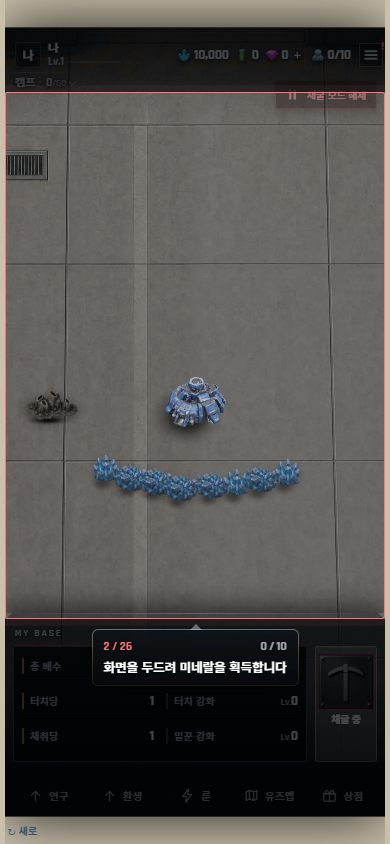
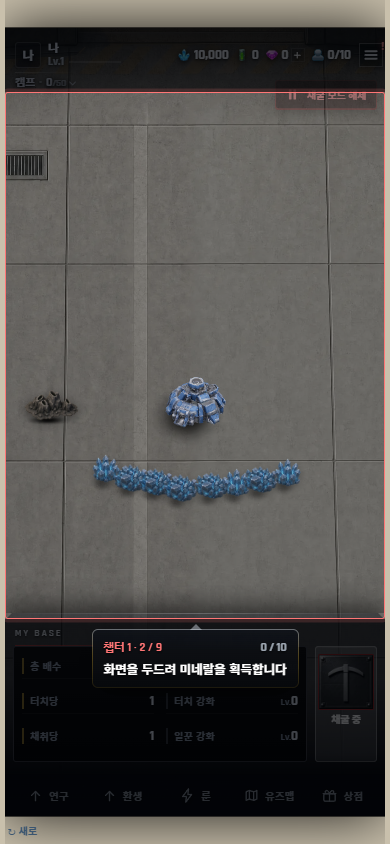
✨ 튜토리얼을 챕터 셋으로 — 자원 · 기지와 부대 · 출격
📚 스물여섯 단계를 한 줄로 이으면 어디쯤 왔는지 알 수 없고 쉬어 갈 자리도 없다.
   챕터가 바뀔 때 카드를 한 번 띄우고([계속]), 그 뒤로는 말풍선 왼쪽 위가
   「챕터 2 · 3/13」처럼 **챕터 안에서만** 센다.
   · 챕터 1 자원(9) — 채굴 → 두드리기 → 연구 구역 → 터치 강화 → 일꾼 → 일꾼 강화 → 병영 값
   · 챕터 2 기지와 부대(13) — 채굴 해제 → 건설 → 생산 → 유닛 이동 → 화면 조작
   · 챕터 3 출격(4) — 던전 목록 → 선택 → 이동 → 마무리

⭐ **경계는 표가 아니라 단계다** — TUTO_STEPS 안의 챕터 카드가 곧 경계이고 번호도
   그 사이에서 센다. ⛔ 「몇 번부터 몇 번까지」를 따로 적지 말 것: 단계가 하나 늘 때
   두 곳을 고쳐야 하고, 한 곳을 잊으면 번호가 조용히 어긋난다.
⛔ 보상은 나누지 않는다(사용자 확정) — 챕터는 눈금일 뿐, 보상은 끝에 한 번이다.

🃏 카드는 같은 .tuTip 이고 제목만 한 단 크다(새 판을 만들지 않았다). 시킬 일이 없으니
   링·꼬리·진행 숫자가 없고, 들어갈 때 미끄러지지 않는다 — 실측에서 화면만 한 구멍이
   점으로 오므라들어 「아무것도 아닌 밝은 사각형」이 한 박자 떠 있었다(camp-tuto-ch2.png).
📖 「읽었다」(S.tack)는 한 칸짜리라 넘어갈 때 지운다 — 안 지우면 다음 카드가 뜨자마자
   통과한다(카드가 셋이다).

실측: docs/mock/camp-tuto-ch1~3.png · 전 구간 자동 주행 통과(scripts/tuto-run.mjs).
계약: 경계 셋 · 카드는 번호에서 빠짐 · 카드의 얼굴(링·꼬리·숫자 없음, 버튼 「계속」,
      보상 없음) · 「읽었다」가 다음 카드로 안 새는 것까지.

Changed region(s): [[0.2462, 0.7393, 0.7385, 0.8009]]

diff --git a/js/06-daily.js b/js/06-daily.js
@@ -380,7 +380,25 @@ function guideNote(kind, n){ try{
 //   ⭐ 진행도는 **게임 상태에서 직접 읽는다**(n()) — 따로 세지 않으므로 어긋날 수가 없다.
 //   ⛔ 여기에 이벤트 리스너를 달아 세지 말 것(두 벌이 된다).
 const TUTO_DG = 1;   // 🗺 튜토리얼이 데려가는 곳 — 캠프(0)의 바로 다음
+// 📚 **셋으로 나눈다**(2026-09-08 사용자 확정) — 스물여섯 단계를 한 줄로 이으면 어디쯤 왔는지
+//   알 수 없고 쉬어 갈 자리도 없다. 챕터가 바뀔 때 카드를 한 번 띄우고, 그 뒤로는 말풍선
+//   왼쪽 위가 「챕터 2 · 3/13」처럼 **챕터 안에서만** 센다.
+//   ⭐ **경계는 표가 아니라 단계다** — TUTO_STEPS 안의 챕터 카드(ch 를 가진 칸)가 곧 경계이고,
+//     번호도 그 사이에서 센다. ⛔ 「몇 번부터 몇 번까지」를 따로 적어 두지 말 것: 단계가
+//     하나 늘 때마다 두 곳을 고쳐야 하고, 한 곳을 잊으면 번호가 조용히 어긋난다.
+//   ⛔ 보상은 나누지 않는다(사용자 확정) — 챕터는 나누는 눈금일 뿐이고 보상은 끝에 한 번이다.
+const TUTO_CH = [
+  { n:1, title:'자원',        sub:'두드려 벌고, 일꾼에게 맡깁니다' },
+  { n:2, title:'기지와 부대',  sub:'짓고, 뽑고, 움직입니다' },
+  { n:3, title:'출격',        sub:'던전으로 나갑니다' },
+];
+// 🃏 챕터 카드 한 칸을 만든다 — 시키는 일이 없고 **읽고 [계속]** 을 누른다(outro 와 같은 어법).
+function _tutoChStep(k){ const c=TUTO_CH[k];
+  return { id:'ch'+c.n, ch:c.n, goal:1,
+    tip:()=>c.title, sub:()=>c.sub, go:()=>'계속',
+    at:()=>'all', n:()=>{ const S=guideState(); return (S && S.tack) ? 1 : 0; } }; }
 const TUTO_STEPS = [
+  _tutoChStep(0),
   // ⚠ 채굴이 켜졌는지는 **campMineModeOn()** 이 안다(#phone.mineMode). 옛 시트의 #campMineTap 을
   //   보고 있었더니 켜도 다음으로 안 넘어갔다(2026-09-04 사용자 신고 · 그 시트는 이제 안 쓴다).
   { id:'mineOn', goal:1,  tip:'여기를 터치하여 채굴 모드를 켭니다',
@@ -411,6 +429,7 @@ const TUTO_STEPS = [
   //   ⚠ 돈은 **채굴이 켜져 있을 때 한꺼번에** 모은다 — 끄고 나면 두드려 벌 수가 없다(순서가 곧 이유다).
   { id:'coinB',  goal:()=>_tutoBCost(0)+_tutoBCost(1), tip:()=>_tutoBuildCostTip(),
     at:_tutoTapAt, n:()=>_tutoCoin() },
+  _tutoChStep(1),
   { id:'mineOff',goal:1,  tip:'채굴 모드 해제 버튼을 눌러 일반모드로 전환합니다',
     at:()=>_tutoVis('#campMineStop'),
     n:()=>(typeof campMineModeOn==='function' && !campMineModeOn()) ? 1 : 0 },
@@ -469,6 +488,7 @@ const TUTO_STEPS = [
   { id:'panDrag',goal:1,  tip:()=>(_tutoPanMode() ? '한 손가락으로 화면을 밀어 봅니다'
                                                   : '이동 모드가 풀렸습니다 — 다시 길게 누릅니다'),
     at:()=>'map', n:()=>(_tutoPanMode() ? _tutoView('pan') : 0) },
+  _tutoChStep(2),
   { id:'dgOpen', goal:1,  tip:'좌상단을 눌러 던전 목록을 엽니다',
     at:()=>_tutoVis('#curTitle'), n:()=>_tutoVis('#campDrop') ? 1 : 0 },
   { id:'dgPick', goal:1,  tip:()=>_tutoDgTip(),
@@ -482,6 +502,7 @@ const TUTO_STEPS = [
   //   아무 데나 터치하면 끝나고 보상이 나간다(tutoPaint 가 오버레이에 리스너를 단다).
   //   ⚠ 이 단계만 게임 상태가 아니라 **터치했나**를 본다. 그래서 상태를 S.tack 에 남긴다.
   { id:'outro',  goal:1,  tip:'라운드가 오를수록 재화 획득 배수가 늘어납니다',
+    sub:()=>TUTO_END_SUB,                                    // ⚠ 초기화를 말없이 하지 않는다
     at:()=>_tutoVis('#curMul') || 'all',
     n:()=>{ const S=guideState(); return (S && S.tack) ? 1 : 0; } },
 ];
@@ -695,10 +716,25 @@ function tutoFreeUnit(id){
 function _tutoLive(st){ if(!st) return false;
   if(st.id==='armB2' || st.id==='placeB2') return _tutoBk(1)!=null;
   return true; }
-function _tutoNo(){ let n=0, k=Math.min(tutoIdx(), TUTO_STEPS.length-1);
-  for(let i=0;i<=k;i++) if(_tutoLive(TUTO_STEPS[i])) n++;
+// 🔢 번호는 **범위 안에서** 센다 — 인자를 안 주면 전체(옛 동작), 챕터 경계를 주면 챕터 안 번호다.
+//   ⚠ 챕터 카드는 세지 않는다 — 시키는 일이 아니라 표지라서, 세면 「1/13」이 카드에서 시작한다.
+function _tutoNo(from){ let n=0, k=Math.min(tutoIdx(), TUTO_STEPS.length-1);
+  for(let i=(from|0);i<=k;i++){ const s=TUTO_STEPS[i]; if(_tutoLive(s) && !s.ch) n++; }
   return Math.max(1, n); }
-function _tutoTotal(){ let n=0; for(const st of TUTO_STEPS) if(_tutoLive(st)) n++; return n; }
+function _tutoTotal(from, to){ let n=0;
+  const a=(from|0), b=(to==null?TUTO_STEPS.length:to);
+  for(let i=a;i<b;i++){ const s=TUTO_STEPS[i]; if(_tutoLive(s) && !s.ch) n++; }
+  return n; }
+// 📚 지금 챕터 — 지나온 마지막 챕터 카드가 정한다(경계가 곧 그 카드다).
+function _tutoChNow(){ let c=null, k=Math.min(tutoIdx(), TUTO_STEPS.length-1);
+  for(let i=0;i<=k;i++) if(TUTO_STEPS[i].ch) c=TUTO_STEPS[i].ch;
+  return c; }
+// 📐 지금 챕터의 [시작, 끝) — 앞 카드의 다음 칸부터 다음 카드 앞까지.
+function _tutoChSpan(){ let a=0, k=Math.min(tutoIdx(), TUTO_STEPS.length-1);
+  for(let i=0;i<=k;i++) if(TUTO_STEPS[i].ch) a=i+1;
+  let b=TUTO_STEPS.length;
+  for(let i=a;i<TUTO_STEPS.length;i++) if(TUTO_STEPS[i].ch){ b=i; break; }
+  return [a, b]; }
 function tutoIdx(){ const S=guideState(); return S ? (S.t|0) : 0; }
 function tutoStep(){ return TUTO_STEPS[tutoIdx()] || null; }
 // 🔧 **검사용 스위치**(CAMP_DEV_NOFAIL 과 같은 어법). 튜토리얼은 화면을 통째로 덮고 입력을 막으므로
@@ -741,13 +777,16 @@ function tutoTarget(){
   const a=st.at();
   const goal=_tutoGoal(st), n=Math.min(goal, st.n()|0);
   const tip=(typeof st.tip==='function') ? st.tip() : st.tip;   // 종족마다 건물 이름이 다르다
-  if(a==='free') return { free:true, tip:tip, n:n, goal:goal };  // 👆 화면을 통째로 연다(막지 않는다)
-  if(a==='all') return { full:true, tip:tip, n:n, goal:goal };   // 📖 읽고 넘기는 단계(대상이 없다)
-  if(a==='map') return { map:true, tip:tip, n:n, goal:goal };
+  // 🗒 **부제는 단계가 갖는다** — 챕터 카드는 「짓고, 뽑고, 움직입니다」, 마지막 칸은 초기화 예고.
+  //   ⛔ 화면 쪽에서 단계 id 를 보고 문구를 고르지 말 것(표가 단일 소스다).
+  const sub=(typeof st.sub==='function') ? st.sub() : (st.sub||'');
+  if(a==='free') return { free:true, tip:tip, sub:sub, n:n, goal:goal };  // 👆 화면을 통째로 연다
+  if(a==='all') return { full:true, ch:st.ch||0, tip:tip, sub:sub, n:n, goal:goal }; // 📖 읽고 넘긴다
+  if(a==='map') return { map:true, tip:tip, sub:sub, n:n, goal:goal };
   // 🏛 맵 위의 **한 자리**(건물처럼 DOM 이 아닌 것) — {left,top,right,bottom}
-  if(a && a.left!=null) return { rect:a, tip:tip, n:n, goal:goal };
+  if(a && a.left!=null) return { rect:a, tip:tip, sub:sub, n:n, goal:goal };
   if(!a) return null;
-  return { el:a, tip:tip, n:n, goal:goal };
+  return { el:a, tip:tip, sub:sub, n:n, goal:goal };
 }
 // 다 했으면 다음 단계로 — 진행도를 그릴 때마다 확인한다(따로 이벤트를 안 단다).
 // ✅ **완료를 보고 넘어간다**(2026-09-04 사용자 요청) — 목표를 채우면 곧바로 다음으로 가지 않고
@@ -768,7 +807,8 @@ function tutoAdvance(){
     if(now - S.hold < TUTO_HOLD_MS) return false;               // 아직 보여 주는 중
     delete S.hold; }
   const _last=(tutoIdx()+1 >= TUTO_STEPS.length);
-  S.t=tutoIdx()+1; S.base=null; delete S.mv0; delete S.vw0; delete S.vp0;
+  // 📖 **「읽었다」는 한 칸짜리다** — 안 지우면 다음 챕터 카드가 뜨자마자 통과한다(카드가 셋이다).
+  S.t=tutoIdx()+1; S.base=null; delete S.tack; delete S.mv0; delete S.vw0; delete S.vp0;
   if(_last) tutoFinish();
   // 💰 **단계가 바뀌면 값도 그 자리에서 다시 잰다.** 유닛 값은 campFrame 이 프레임마다 갱신하는데
   //   「첫 한 기 공짜」는 **단계**에 달려 있다 — 안 그러면 카드가 한 박자 옛 값으로 잠겨 보인다.
@@ -804,7 +844,7 @@ function tutoPaint(){
     //   ⚠ 게임 행동이 아니라 「읽었다」는 신호라, 계측(dqNote)이 아니라 여기서 받는 것이 맞다.
     ov.querySelector('.tuGo').addEventListener('click', function(ev){
       if(ev && ev.stopPropagation) ev.stopPropagation();
-      const st=tutoStep(); if(!st || st.id!=='outro') return;
+      const st=tutoStep(); if(!st || (st.id!=='outro' && !st.ch)) return;
       const S=guideState(); if(S) S.tack=1;
       tutoPaint(); }); }
   ph.classList.add('tutoOn');
@@ -845,7 +885,9 @@ function tutoPaint(){
         if(s.height>0 && s.top>y0 && s.top<y2) y2=s.top; }
       return { left:h.left, right:h.right, top:y0, bottom:Math.max(y0+40, y2) }; })()
     : t.el.getBoundingClientRect();
-  const PAD=6;
+  // 📚 챕터 카드는 **구멍이 없다** — 여느 단계의 여유(PAD)를 그대로 두면 대상이 없는데도
+  //   14px 짜리 밝은 점이 카드 위에 남는다(2026-09-08 실측). 시킬 일이 없으니 열 곳도 없다.
+  const PAD=t.ch ? 0 : 6;
   const x1=Math.max(0, r.left-pr.left-PAD), y1=Math.max(0, r.top-pr.top-PAD);
   const x2=Math.min(pr.width, r.right-pr.left+PAD), y2=Math.min(pr.height, r.bottom-pr.top+PAD);
   const px=(v)=>v.toFixed(1)+'px';
@@ -856,9 +898,12 @@ function tutoPaint(){
   //   ⚠ **자리를 주기 전에** 정해야 한다(2026-09-08). 링 style 을 준 뒤에 transition 을 꺼 봐야
   //     이미 시작한 보간은 안 멈춘다 — 실측에서 링이 364px 에서 53px 로 계속 미끄러졌다.
   //   ⚠ 가까운 이동은 그대로 미끄러진다(단계가 이어진다는 느낌은 그쪽이 낫다).
+  //   📚 **챕터 카드로 들어갈 때도 즉시** — 대상이 없어 구멍이 화면만 하게 벌어져 있다가
+  //     점으로 오므라든다. 그건 「미끄러진다」가 아니라 **밝은 사각형이 닫히는** 것이라
+  //     한 박자 동안 아무것도 아닌 판이 떠 있는 것으로 보인다(2026-09-08 실측 camp-tuto-ch2.png).
   { const mx=(x1+x2)/2, my=(y1+y2)/2, prev=ov._tuAt;
     ov._tuAt={ x:mx, y:my };
-    if(prev && Math.hypot(mx-prev.x, my-prev.y) > pr.height*0.30){
+    if((prev && Math.hypot(mx-prev.x, my-prev.y) > pr.height*0.30) || !!t.ch){
       ov.classList.remove('tuAnim');
       const rg=q('.tuRing'); rg.classList.remove('tuPop'); void rg.offsetWidth; rg.classList.add('tuPop');
       if(typeof requestAnimationFrame==='function') requestAnimationFrame(function(){ ov.classList.add('tuAnim'); });
@@ -868,7 +913,10 @@ function tutoPaint(){
   q('.tuL').style.cssText='left:0;top:'+px(y1)+';width:'+px(x1)+';height:'+px(y2-y1);
   q('.tuR').style.cssText='left:'+px(x2)+';top:'+px(y1)+';right:0;height:'+px(y2-y1);
   q('.tuRing').style.cssText='left:'+px(x1)+';top:'+px(y1)+';width:'+px(x2-x1)+';height:'+px(y2-y1);
-  q('.tuRing').classList.toggle('tuHide', !!t.free);   // 👆 화면 전체를 여는 단계에는 테두리를 안 그린다
+  // 👆 화면 전체를 여는 단계 · 📚 챕터 카드에는 테두리를 안 그린다.
+  //   ⚠ 챕터 카드에 링이 남으면 화면 한가운데에 **아무것도 아닌 붉은 사각형**이 뜬다 —
+  //     시키는 일이 없는 칸이라 가리킬 곳도 없다(2026-09-08 실측 camp-tuto-ch2.png).
+  q('.tuRing').classList.toggle('tuHide', !!t.free || !!t.ch);
   // 말풍선은 **대상 옆**에 붙인다(2026-09-04 사용자 지적) — 화면 아래 끝에 두면 어디를 누르라는 건지
   //   눈이 두 번 움직인다. 아래에 자리가 있으면 아래, 없으면 위. 좌우는 대상 중심을 따라간다.
   // 🎞 **단계가 바뀔 때만** 말풍선을 다시 태운다(2026-09-04 사용자 요청 — 「조금 더 자연스럽게」).
@@ -877,20 +925,33 @@ function tutoPaint(){
   { const _st=tutoStep(), _id=_st?_st.id:'';
     if(ov._tuStep!==_id){ ov._tuStep=_id;
       const _tp=q('.tuTip'); _tp.classList.remove('tuIn'); void _tp.offsetWidth; _tp.classList.add('tuIn'); } }
-  // 🏁 마지막 칸은 왼쪽 위가 **번호가 아니라 「튜토리얼 종료」**다 — 시킬 일이 없고 끝을 알린다.
+  // 🏷 왼쪽 위 — 챕터 카드는 「챕터 2」, 마지막 칸은 「튜토리얼 종료」, 그 밖은 「챕터 2 · 3/13」.
+  //   ⭐ 번호를 **챕터 안에서** 센다(2026-09-08 사용자 확정) — 스물여섯을 통으로 세면 어디쯤
+  //     왔는지 감이 안 온다. ⛔ 전체 통산으로 되돌리지 말 것.
   { const _st=tutoStep(), _last=!!(_st && _st.id==='outro'), _sp=q('.tuStep');
-    _sp.textContent=_last ? TUTO_END_TITLE : (_tutoNo()+' / '+_tutoTotal());
-    _sp.classList.toggle('end', _last); }
+    const _ch=_tutoChNow(), _sp2=_tutoChSpan();
+    _sp.textContent = _st && _st.ch ? ('챕터 ' + _st.ch)
+      : _last ? TUTO_END_TITLE
+      : ((_ch ? ('챕터 ' + _ch + ' · ') : '') + _tutoNo(_sp2[0]) + ' / ' + _tutoTotal(_sp2[0], _sp2[1]));
+    _sp.classList.toggle('end', _last || !!(_st && _st.ch)); }
   q('.tuTx').textContent=t.tip;
-  // ⚠ **초기화를 말없이 하지 않는다** — 지어 둔 것이 사라진다는 예고를 확인 버튼 위에 둔다.
-  { const _st=tutoStep(), _last=!!(_st && _st.id==='outro'), _sb=q('.tuSub');
-    _sb.textContent=_last ? TUTO_END_SUB : ''; _sb.hidden=!_last; }
+  // 🗒 부제 — 챕터 카드의 한 줄 소개 · 마지막 칸의 초기화 예고. 없으면 자리도 없다.
+  { const _sb=q('.tuSub'); _sb.textContent=t.sub||''; _sb.hidden=!t.sub; }
+  // 🃏 챕터 카드는 **판이 다르다** — 제목이 크고 진행 숫자가 없다(시키는 일이 없다).
+  { const _st=tutoStep(), _isCh=!!(_st && _st.ch);
+    q('.tuTip').classList.toggle('ch', _isCh);
+    q('.tuN').hidden=_isCh; }
   q('.tuN').textContent=t.n+' / '+t.goal;                    // 오른쪽 = **이번 단계의 진행**
   q('.tuN').classList.toggle('ok', t.n>=t.goal);             // ✅ 다 했으면 초록(0.3초 머무는 동안 보인다)
   // 🎁 마지막 단계에만 확인 버튼 — 보상을 **버튼 안에** 얹는다(재화 아이콘은 공용 resIco 하나뿐이다).
   { const _go=q('.tuGo'), _st=tutoStep(), _last=!!(_st && _st.id==='outro');
-    _go.hidden=!_last;
-    if(_last && !_go._tuFill){ _go._tuFill=1;
+    const _isCh=!!(_st && _st.ch);
+    _go.hidden=!(_last || _isCh);
+    // 🃏 챕터 카드의 버튼은 **「계속」** — 보상이 없으므로 글자만이다.
+    //   ⚠ 캐시 열쇠는 **단계 id** 다 — 「채운 적 있다」로 두면 챕터 2 카드에 챕터 1 의 글자가 남는다.
+    if(_isCh && _go._tuFill!==_st.id){ _go._tuFill=_st.id;
+      _go.innerHTML='<span>'+((typeof _st.go==='function')?_st.go():'계속')+'</span>'; }
+    if(_last && _go._tuFill!=='outro'){ _go._tuFill='outro';
       // 🎁 **받는 것을 다 적는다** — 젬(보상)과 밑천 미네랄(새 출발). 둘 다 실제로 들어가므로
       //   하나만 적으면 나머지가 없는 것처럼 보인다. ⛔ 이모지 금지 — 재화 그림은 resIco 하나다.
       const _rw=[];

diff --git a/test/smoke.js b/test/smoke.js
@@ -13338,12 +13338,18 @@ async function groupLobby(){
     skipIf(!S,'가이드 상태 없음');
     const on0=window.campIsOn, off0=TUTO_OFF, t0=S.t, base0=S.base, skip0=S.skip;
     try{
-      window.campIsOn=()=>true; TUTO_OFF=false; S.t=0; S.base=null; delete S.skip; S.trun=1;
+      window.campIsOn=()=>true; TUTO_OFF=false;
+      // ⚠ 챕터 카드(0번)가 아니라 **첫 지시 단계**에서 잰다 — 카드는 대상이 없다.
+      S.t=TUTO_STEPS.findIndex(s=>s.id==='mineOn'); S.base=null; delete S.skip; S.trun=1;
       var _cm0=ph.classList.contains('campMode'); ph.classList.add('campMode');
       tutoPaint();
       // 표 자체는 화면이 없어도 잰다 — 단계마다 **제 진행도**를 갖는 것이 이 설계의 핵심이다
-      assert(TUTO_STEPS[0].goal===1,'첫 단계가 1번이 아니다: '+TUTO_STEPS[0].goal);
-      assert(TUTO_STEPS[1].goal===10,'두 번째 단계가 10번이 아니다: '+TUTO_STEPS[1].goal);
+      // 📚 맨 앞은 **챕터 1 카드**다(읽고 넘긴다) — 시키는 일은 그다음 칸부터다.
+      //   ⚠ 이 검사는 「단계마다 제 진행도를 갖는다」를 재는 것이라, 카드를 건너뛰고 잰다.
+      const _i0=TUTO_STEPS.findIndex(s=>s.id==='mineOn'), _i1=TUTO_STEPS.findIndex(s=>s.id==='tap');
+      assert(TUTO_STEPS[0].ch===1,'맨 앞이 챕터 1 카드가 아니다: '+TUTO_STEPS[0].id);
+      assert(TUTO_STEPS[_i0].goal===1,'첫 단계가 1번이 아니다: '+TUTO_STEPS[_i0].goal);
+      assert(TUTO_STEPS[_i1].goal===10,'두 번째 단계가 10번이 아니다: '+TUTO_STEPS[_i1].goal);
       assert(TUTO_STEPS.length>=6,'단계표가 너무 짧다: '+TUTO_STEPS.length);
       const ov=$('tutoOv');
       // 대상(채굴 칸)이 화면에 있어야 스포트라이트가 뜬다 — 없으면 이 검사는 건너뛴다
@@ -13360,14 +13366,16 @@ async function groupLobby(){
       assert(out && out.closest && out.closest('.tutoOv'),'대상 밖이 안 막힌다 — 완전 강제가 깨졌다');
       assert(inn && inn.closest && inn.closest('[data-minemode]'),'대상이 안 눌린다 — 스포트라이트가 대상까지 덮었다');
       // ③ 두 진행도 — 왼쪽은 몇 단계째, 오른쪽은 이번 단계의 진행
-      assert(/^1 \/ \d+$/.test(ov.querySelector('.tuStep').textContent),'왼쪽이 단계 표시가 아니다: '+ov.querySelector('.tuStep').textContent);
+      { const _hd=ov.querySelector('.tuStep').textContent;
+        assert(_hd.indexOf('챕터 1 · 1 / ')===0,
+          '왼쪽이 「챕터 N · a / b」가 아니다: '+_hd); }
       assert(ov.querySelector('.tuN').textContent==='0 / 1','첫 단계 진행이 0 / 1 이 아니다: '+ov.querySelector('.tuN').textContent);
       // ④ 말풍선이 **대상 근처**에 있다(화면 끝에 두면 눈이 두 번 움직인다)
       { const tip=ov.querySelector('.tuTip').getBoundingClientRect();
         const d=Math.min(Math.abs(tip.top-Tg.bottom), Math.abs(Tg.top-tip.bottom));
         assert(d<=40,'말풍선이 대상에서 멀다: '+d.toFixed(0)+'px'); }
       // ⑤ 다음 단계는 goal 이 10 이다(광맥 두드리기) — 단계마다 제 진행도를 갖는다
-      assert(TUTO_STEPS[1].goal===10,'두 번째 단계가 10번이 아니다: '+TUTO_STEPS[1].goal);
+      assert(TUTO_STEPS[_i1].goal===10,'두 번째 단계가 10번이 아니다: '+TUTO_STEPS[_i1].goal);
       // ⑥ 🚪 **직접 켜 보는 자리**가 있다(2026-09-04 사용자 요청) — 가이드 시트 맨 위 줄.
       //   ⛔ 그만두기를 빼지 말 것: 튜토리얼은 화면을 덮으므로 켠 사람이 나올 길이 필요하다.
       assert(typeof tutoRestart==='function' && typeof tutoStop==='function','튜토리얼을 켜고 끄는 입구가 없다');
@@ -13504,6 +13512,65 @@ async function groupLobby(){
     return '되감음 · 환생 값 유지 · 밑천 '+got.toLocaleString()+' · 가스 0 · 일꾼 '+wk;
   });
 
+  // 📚 튜토리얼은 **셋으로 나뉜다**(2026-09-08 사용자 확정) — 자원 · 기지와 부대 · 출격.
+  //   경계는 표가 아니라 **챕터 카드 단계**이고, 번호도 그 사이에서 센다.
+  await step('튜토리얼: 챕터 셋으로 갈린다 · 카드는 읽고 넘긴다', async()=>{
+    skipIf(typeof TUTO_STEPS==='undefined'||typeof TUTO_CH==='undefined','튜토리얼 없음');
+    const ids=TUTO_STEPS.map(s=>s.id), at=(k)=>ids.indexOf(k);
+    assert(TUTO_CH.length===3,'챕터가 셋이 아니다: '+TUTO_CH.length);
+    for(const c of TUTO_CH) assert(c.title && c.sub,'챕터에 제목·부제가 없다: '+JSON.stringify(c));
+    // 🗂 경계 — 자원은 채굴부터, 기지는 채굴 해제부터, 출격은 던전 목록부터
+    assert(at('ch1')+1===at('mineOn'),'챕터 1 이 채굴 앞에서 안 열린다: '+ids.slice(0,3).join(' → '));
+    assert(at('ch2')+1===at('mineOff'),'챕터 2 가 「채굴 해제」 앞이 아니다');
+    assert(at('ch3')+1===at('dgOpen'),'챕터 3 이 「던전 목록」 앞이 아니다');
+    // 🔢 카드는 **번호에서 빠진다** — 세면 「1/13」이 카드에서 시작해 셈이 거짓말이 된다
+    { const S=guideState(); skipIf(!S,'상태 없음'); const t0=S.t;
+      try{ S.t=at('ch2'); const sp=_tutoChSpan();
+        assert(sp[0]===at('mineOff'),'챕터 범위가 카드부터 시작한다: '+sp[0]+' vs '+at('mineOff'));
+        assert(sp[1]===at('ch3'),'챕터 범위가 다음 카드에서 안 끝난다: '+sp[1]);
+        const tot=_tutoTotal(sp[0],sp[1]);
+        assert(tot>0 && tot<TUTO_STEPS.length,'챕터 안 총수가 이상하다: '+tot);
+        S.t=at('mineOff');
+        assert(_tutoNo(sp[0])===1,'챕터 첫 단계가 1 이 아니다: '+_tutoNo(sp[0]));
+        assert(_tutoChNow()===2,'챕터 번호가 틀렸다: '+_tutoChNow());
+      } finally { S.t=t0; } }
+    // 🃏 카드의 모습 — 링·꼬리·진행 숫자가 없고, 버튼은 「계속」(보상은 끝에 한 번뿐이다)
+    { const S=guideState(), on0=window.campIsOn, off0=TUTO_OFF;
+      const t0=S?S.t:0, run0=S?S.trun:null, skip0=S?S.skip:null, ack0=S?S.tack:null;
+      try{ window.campIsOn=()=>true; TUTO_OFF=false;
+        if(S){ S.t=at('ch2'); S.trun=1; delete S.skip; delete S.tack; }
+        tutoPaint();
+        const ov=$('tutoOv'); assert(ov,'챕터 카드가 안 뜬다');
+        const tip=ov.querySelector('.tuTip'), go=ov.querySelector('.tuGo');
+        assert(tip.classList.contains('ch'),'챕터 카드가 지시 카드와 같은 얼굴이다');
+        assert(ov.querySelector('.tuStep').textContent==='챕터 2',
+          '카드 머리줄이 챕터를 안 말한다: '+ov.querySelector('.tuStep').textContent);
+        assert(ov.querySelector('.tuTx').textContent===TUTO_CH[1].title,'카드 제목이 다르다');
+        const sb=ov.querySelector('.tuSub');
+        assert(sb && !sb.hidden && sb.textContent===TUTO_CH[1].sub,'카드 부제가 없다');
+        assert(ov.querySelector('.tuN').hidden,'카드에 진행 숫자가 뜬다 — 시킬 일이 없는 칸이다');
+        assert(getComputedStyle(tip,'::after').display==='none','카드에 꼬리가 남았다 — 가리킬 곳이 없다');
+        const rgc=getComputedStyle(ov.querySelector('.tuRing')).borderTopColor;
+        assert(rgc.indexOf('0)')>0||rgc==='transparent','카드에 스포트라이트 링이 남았다: '+rgc);
+        assert(go && !go.hidden && getComputedStyle(go).display!=='none','카드에 「계속」 버튼이 없다');
+        assert(go.textContent.trim()==='계속','카드 버튼 글자가 다르다: '+go.textContent);
+        assert(!go.querySelector('img,svg'),'카드 버튼에 보상이 붙었다 — 보상은 끝에 한 번이다');
+        // 📖 「읽었다」는 **한 칸짜리** — 안 지우면 다음 카드가 뜨자마자 통과한다
+        go.click();
+        assert(S.tack===1,'카드를 눌러도 읽었다는 표시가 안 남는다');
+        S.t=at('ch3'); S.base=null; delete S.tack;      // tutoAdvance 가 하는 것과 같다
+        tutoPaint();
+        assert((TUTO_STEPS[at('ch3')].n()|0)===0,
+          '다음 카드가 뜨자마자 통과한다 — 「읽었다」를 안 지웠다');
+      } finally { window.campIsOn=on0; TUTO_OFF=off0;
+        if(S){ S.t=t0;
+          if(run0!=null) S.trun=run0; else delete S.trun;
+          if(skip0!=null) S.skip=skip0; else delete S.skip;
+          if(ack0!=null) S.tack=ack0; else delete S.tack; }
+        tutoPaint(); } }
+    return '챕터 '+TUTO_CH.map(c=>c.title).join(' · ');
+  });
+
   await step('튜토리얼: 건물 짓기가 손동작 단위로 갈라져 있다', async()=>{
     skipIf(typeof TUTO_STEPS==='undefined'||typeof TUTO_BLD==='undefined','튜토리얼 없음');
     const ids=TUTO_STEPS.map(s=>s.id);
@@ -13530,10 +13597,12 @@ async function groupLobby(){
     { const r0=G.tech.race; try{ G.tech.race='union';
         assert(_tutoLive({id:'armB2'})===false && _tutoLive({id:'placeB2'})===false,
           '유니온인데 둘째 건물 단계를 센다 — 번호가 뛴다');
-        assert(_tutoTotal()===ids.length-2,'보이는 단계 수가 안 맞는다: '+_tutoTotal()+' (전체 '+ids.length+')');
+        // ⚠ 챕터 카드 셋도 세지 않는다(시키는 일이 아니라 표지다)
+        assert(_tutoTotal()===ids.length-2-TUTO_CH.length,
+          '보이는 단계 수가 안 맞는다: '+_tutoTotal()+' (전체 '+ids.length+' · 카드 '+TUTO_CH.length+')');
         G.tech.race='aetherial';
         assert(_tutoLive({id:'armB2'})===true,'에테리얼은 둘째 건물(동력탑→차원문)을 쓴다');
-        assert(_tutoTotal()===ids.length,'에테리얼인데 단계가 빠진다: '+_tutoTotal());
+        assert(_tutoTotal()===ids.length-TUTO_CH.length,'에테리얼인데 단계가 빠진다: '+_tutoTotal());
       } finally { G.tech.race=r0; } }
     // 📖 **마지막은 읽고 넘긴다** — 좌상단 **배수 칸**(#curMul)을 감싼다(2026-09-04 사용자 확정).
     //   ⚠ 그 칸이 없거나 안 보이면 화면 전체('all')로 물러난다 — 그래도 아무 데나 터치하면 넘어간다.

diff --git a/css/30-home.css b/css/30-home.css
@@ -978,6 +978,15 @@
      ⛔ 경고색(붉은색)을 쓰지 말 것: 이 자리의 붉은색은 왼쪽 위 제목과 스포트라이트 링이다. */
   .tutoOv .tuSub{margin-top:1px;font-size:11px;font-weight:700;color:rgba(214,226,240,.62);
     line-height:1.3;word-break:keep-all}
+  /* 📚 **챕터 카드** — 시키는 일이 없고 「여기서부터 무엇을 배우는지」만 말한다(2026-09-08).
+     제목을 한 단 키우고 진행 숫자를 숨겨, 지시 카드와 **한눈에 갈리게** 한다.
+     ⛔ 새 판을 만들지 말 것 — 같은 .tuTip 이고 달라지는 건 글자 크기와 여백뿐이다. */
+  /* ⛔ 챕터 카드에는 **꼬리가 없다** — 가리킬 대상이 없는데 꼬리만 남으면 화면의 빈자리를 가리킨다. */
+  .tutoOv .tuTip.ch::after{display:none}
+  .tutoOv .tuTip.ch{padding:11px 13px 11px}
+  .tutoOv .tuTip.ch .tuTx{font-size:17px;line-height:1.2;letter-spacing:-.01em}
+  .tutoOv .tuTip.ch .tuSub{margin-top:3px;font-size:11.5px;color:rgba(214,226,240,.7)}
+  .tutoOv .tuTip.ch .tuGo{margin-top:9px}
   /* 🎁 마지막 확인 버튼 — 공용 .actBtn.pri 가 면·테두리·글자를 갖는다. 여기서는 **자리와 크기만** 준다.
      ⛔ 면·테두리를 따로 쓰지 말 것(레지스트리 「액션 버튼」). ⚠ 말풍선은 pointer-events:none 이라
      버튼만 되살린다 — 그러지 않으면 안 눌린다. */
